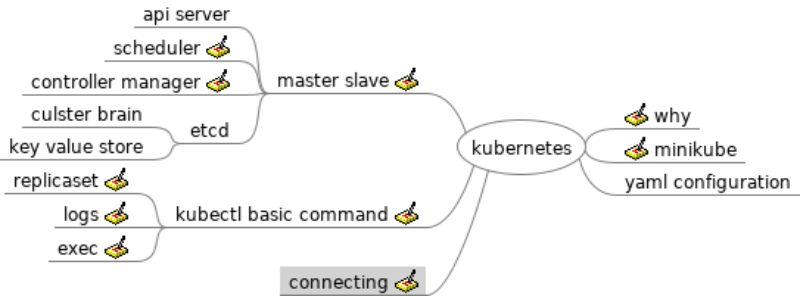
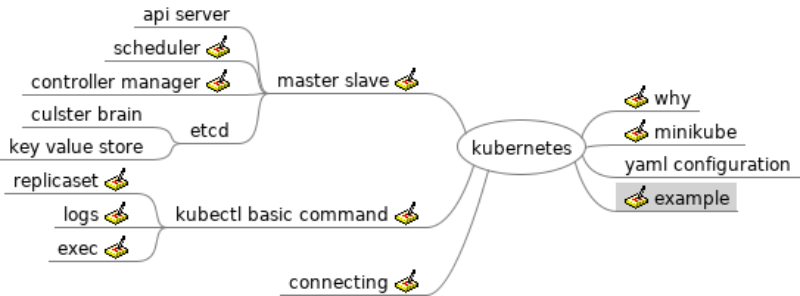
update lecture notes

Changed region(s): [[0.7188, 0.2736, 1.0, 0.7297], [0.3438, 0.8818, 0.5312, 1.0]]

diff --git a/kubernetes.mm b/kubernetes.mm
@@ -222,5 +222,69 @@
 </html>
 </richcontent>
 </node>
+<node CREATED="1655303906096" ID="ID_744852848" MODIFIED="1655591447186" POSITION="right" TEXT="example">
+<richcontent TYPE="NOTE"><html>
+  <head>
+    
+  </head>
+  <body>
+    <p>
+      mongoDB and mongoExpress
+    </p>
+    <p>
+      configMap ... buat simpen URL
+    </p>
+    <p>
+      secret buat simpen username sama pass
+    </p>
+    <p>
+      
+    </p>
+    <p>
+      internal service
+    </p>
+    <p>
+      external service
+    </p>
+    <p>
+      
+    </p>
+    <p>
+      kubectl get all, buat liat yg ada di kubernetes apa aja
+    </p>
+    <p>
+      create secret, base64 diubahnya
+    </p>
+    <p>
+      
+    </p>
+    <p>
+      kubectl apply -f filenya
+    </p>
+    <p>
+      
+    </p>
+    <p>
+      multiple document in 1 file is possible
+    </p>
+    <p>
+      
+    </p>
+    <p>
+      config map ... buat naro url for the DB
+    </p>
+    <p>
+      
+    </p>
+    <p>
+      
+    </p>
+    <p>
+      
+    </p>
+  </body>
+</html>
+</richcontent>
+</node>
 </node>
 </map>

diff --git a/cybersecurity command line.mm b/cybersecurity command line.mm
@@ -1,0 +1,24 @@
+<map version="1.1.0">
+<!-- To view this file, download free mind mapping software FreeMind from http://freemind.sourceforge.net -->
+<node CREATED="1655503878775" ID="ID_1253859073" MODIFIED="1655503886587" TEXT="cybersecurity command line">
+<node CREATED="1655503887230" ID="ID_575793141" MODIFIED="1655504355611" POSITION="right" TEXT="intro">
+<richcontent TYPE="NOTE"><html>
+  <head>
+    
+  </head>
+  <body>
+    <p>
+      jobs ... list all backgrounf
+    </p>
+    <p>
+      fg no.... ambil jobs, terus tampilin ke depan
+    </p>
+    <p>
+      #!/bin/bash&#160;&#160;... ini shebang
+    </p>
+  </body>
+</html>
+</richcontent>
+</node>
+</node>
+</map>
